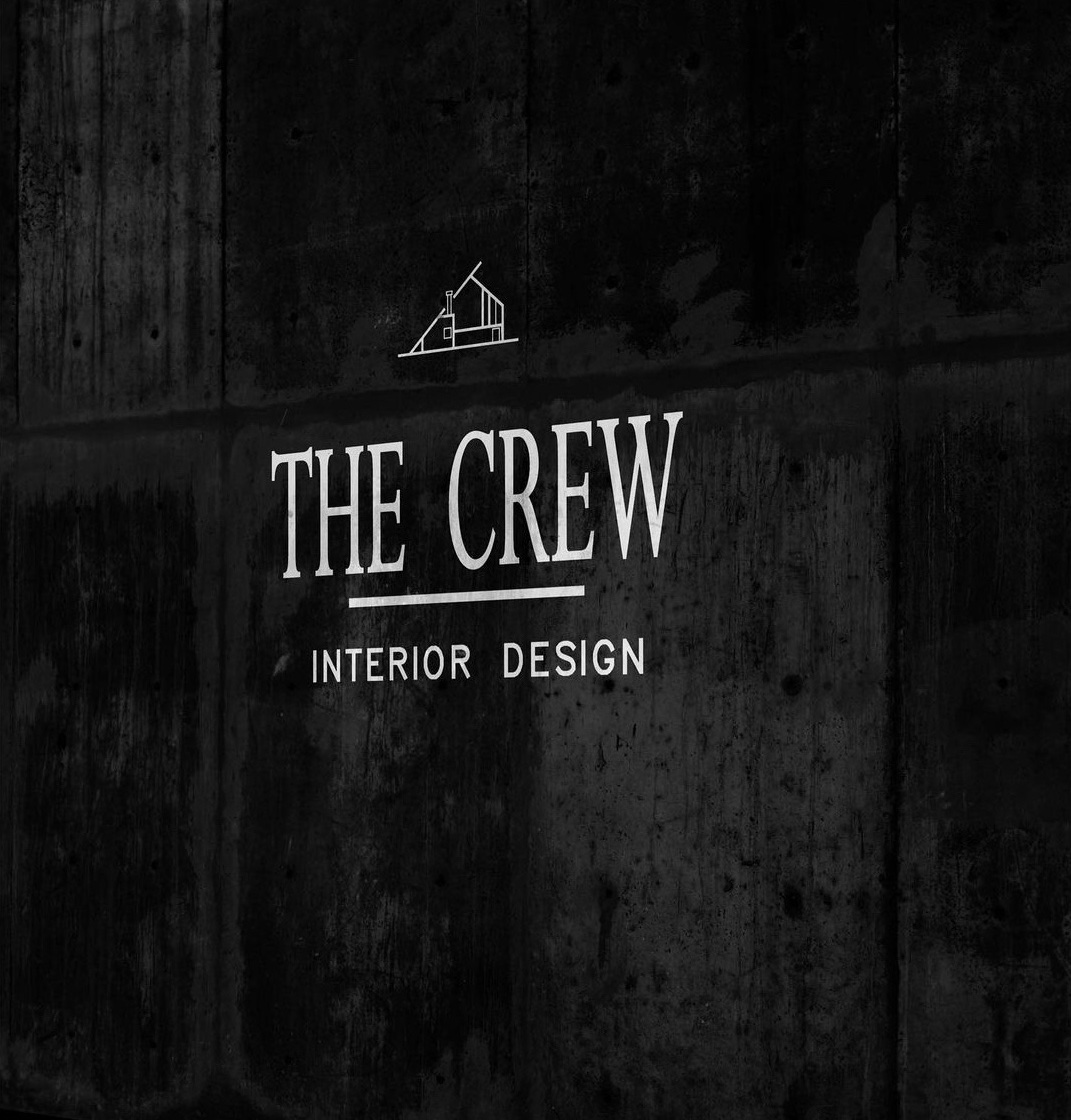
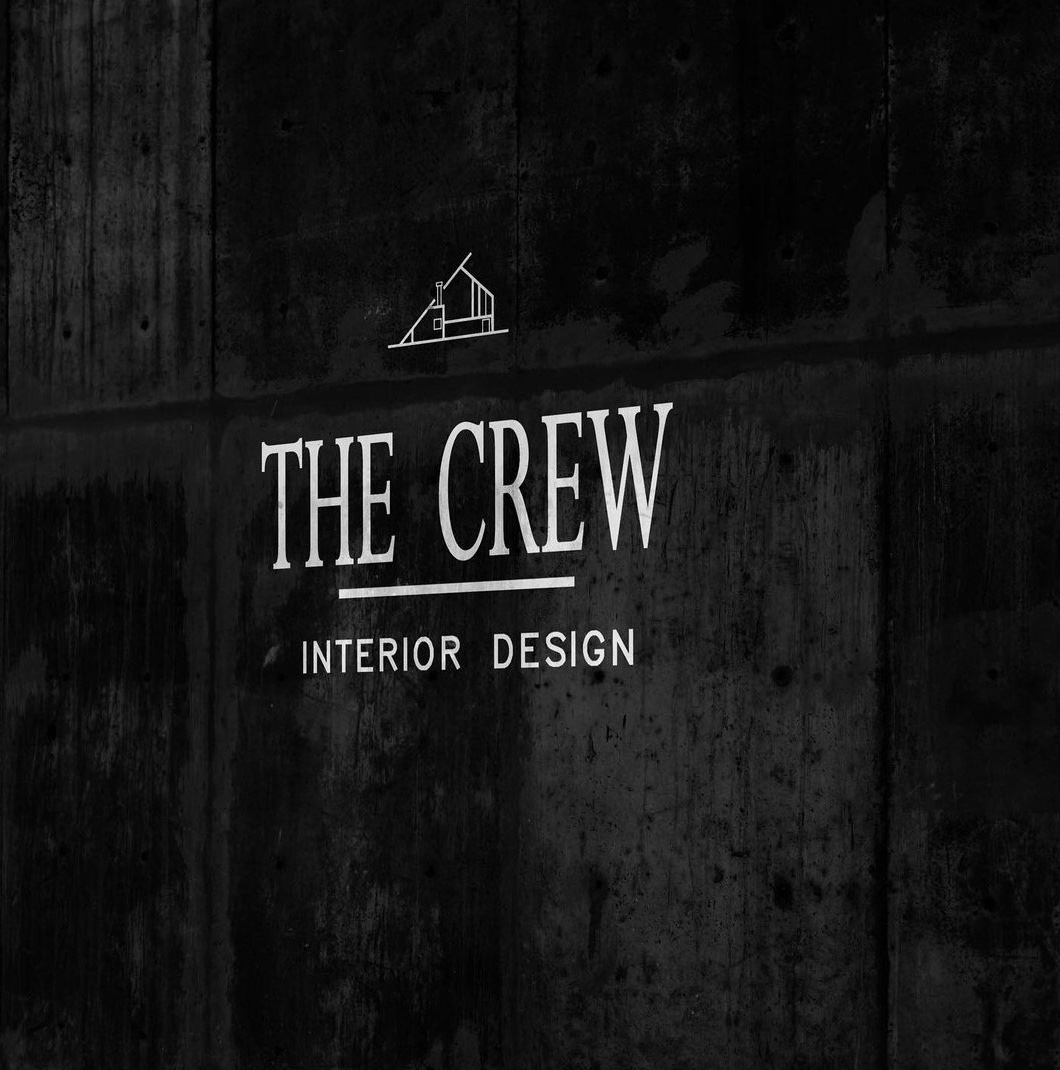
added itrm qr to portfolio

diff --git a/index.html b/index.html
@@ -769,7 +769,7 @@
                             <a class="filter btn btn-sm btn-link" data-group="category_mockups">Mockups</a>
                           </li>
                           <li>
-                            <a class="filter btn btn-sm btn-link" data-group="category_soundcloud">Podcasts</a>
+                            <a class="filter btn btn-sm btn-link" data-group="category_soundcloud">Qr Code Menu</a>
                           </li>
                           <li>
                             <a class="filter btn btn-sm btn-link" data-group="category_vimeo-videos">Graphics Design</a>
@@ -828,7 +828,7 @@
 
                           <figure class="item lbimage" data-groups='["category_all", "category_mockups"]'>
                             <div class="portfolio-item-img">
-                              <img src="img/portfolio/crew/cc3.jpg .jpeg" alt="Mockup Design 1" title="" />
+                              <img src="img/portfolio/crew/cc3.jpg  2.jpeg" alt="Mockup Design 1" title="" />
                               <a href="portfolio-1.html"></a>
                             </div>
 
@@ -836,10 +836,20 @@
                             <h4 class="name">The Crew interior design</h4>
                             <span class="category">Mockups</span>
                           </figure>
+                          <figure class="item standard" data-groups='["category_all", "category_soundcloud"]'>
+                            <div class="portfolio-item-img">
+                              <img src="img/portfolio/qr/qr-codes-fast-foods-burgers.jpg" alt="website Project 2" title="" />
+                              <a href="https://menu-burger-bun.onrender.com/" class=""></a>
+                            </div>
+
+                            <i class="far fa-file-alt"></i>
+                            <h4 class="name">Qr Code Menu </h4>
+                            <span class="category">Burger Menu</span>
+                          </figure>
 
                           <figure class="item lbimage" data-groups='["category_all", "category_mockups"]'>
                             <div class="portfolio-item-img">
-                              <img src="img/portfolio/Mitmita/Poster on Building Wall.png" alt="Mockup Design 1" title="" />
+                              <img src="img/portfolio/Mitmita/Poster on Building Wall (2).png" alt="Mockup Design 1" title="" />
                               <a href="portfolio-2.html"></a>
                             </div>
 
@@ -848,6 +858,8 @@
                             <span class="category">Mockups</span>
                           </figure>
 
+                          
+                         
                           <figure class="item standard" data-groups='["category_all", "category_detailed"]'>
                             <div class="portfolio-item-img flex">
                              
